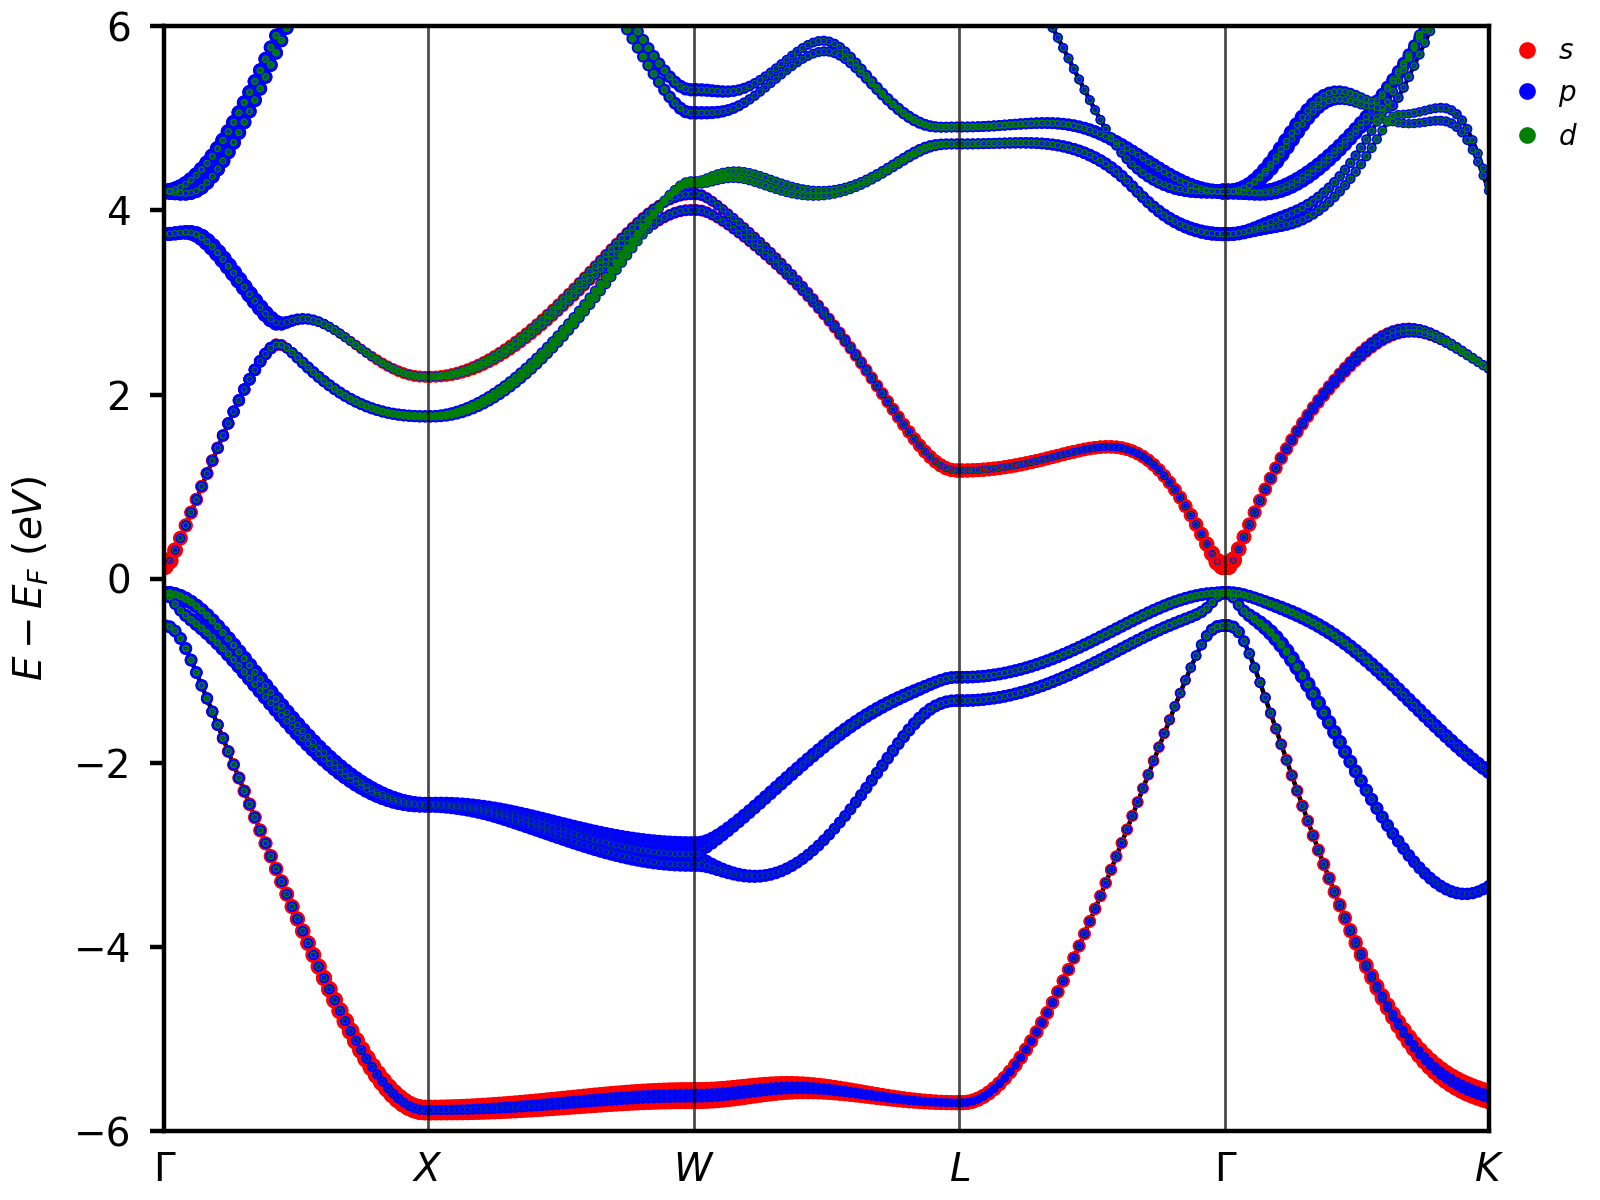
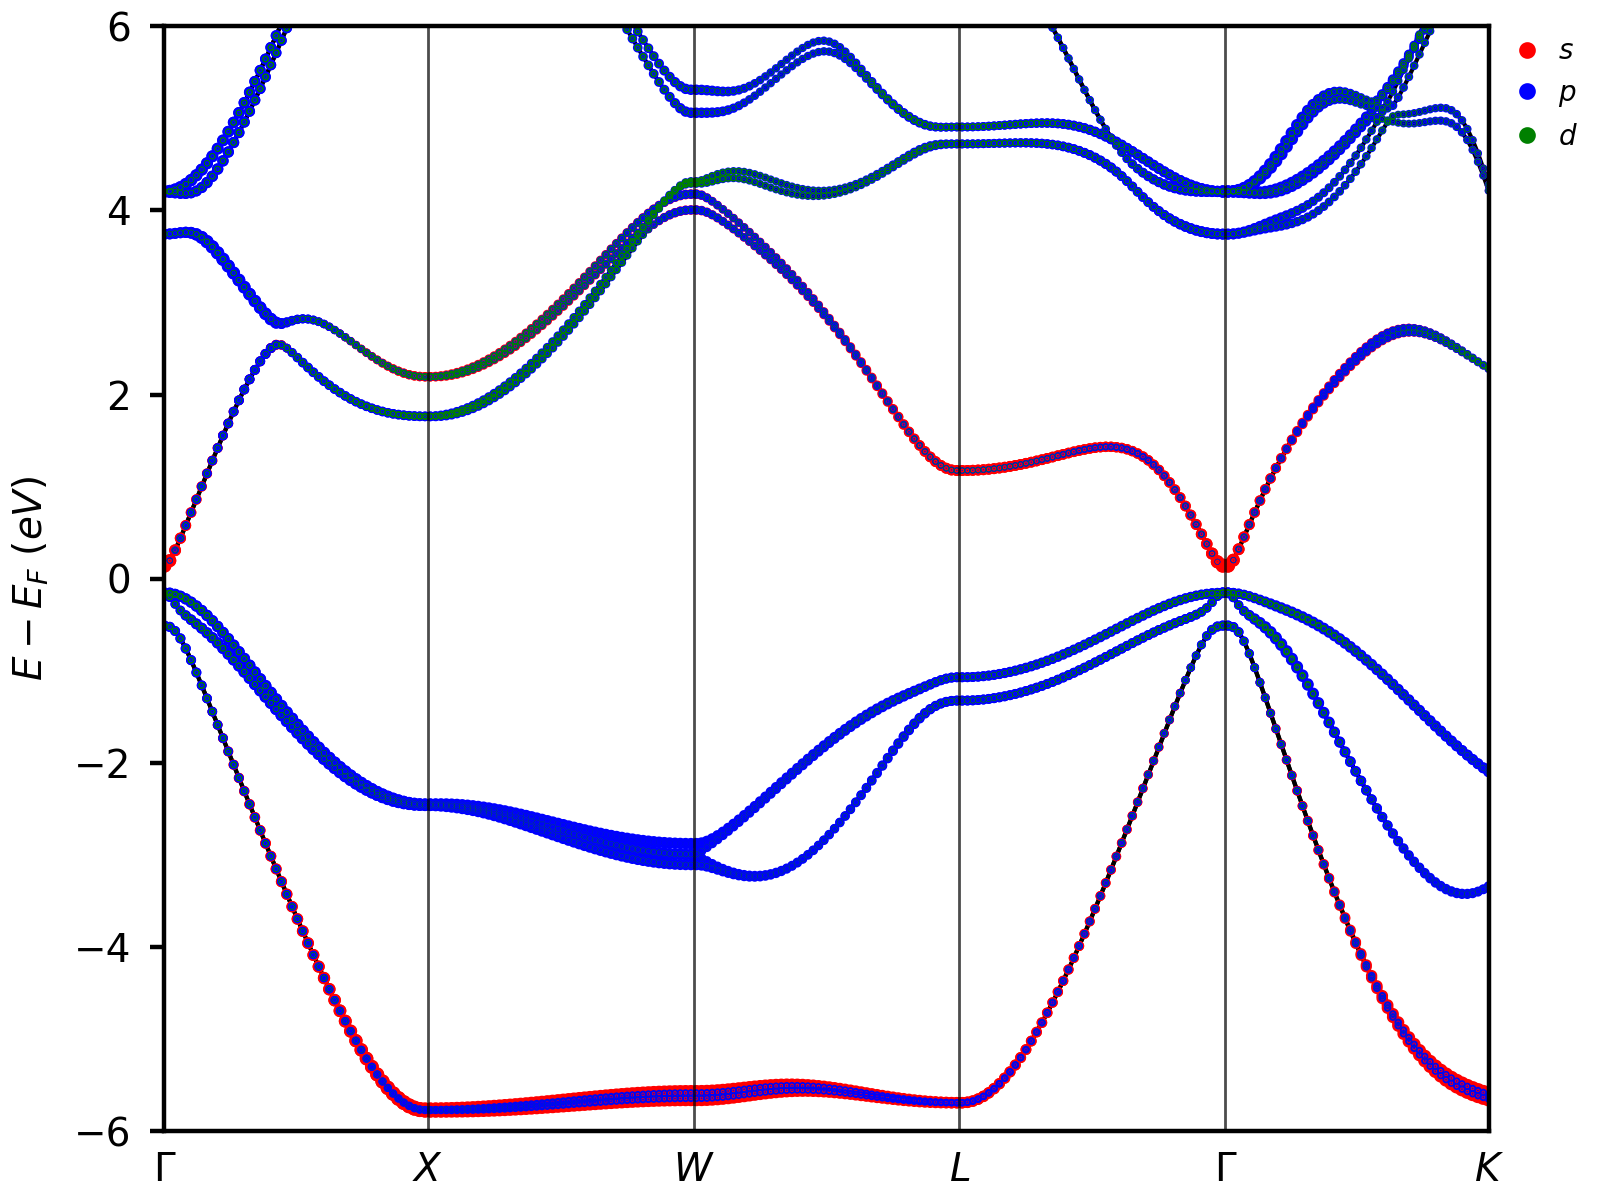
Updated plots in readme

diff --git a/setup.py b/setup.py
@@ -5,7 +5,7 @@ with open('./README.md', 'r') as fh:
 
 setup(
     name='vaspvis',
-    version='0.1.10',
+    version='0.1.11',
     description='A highly flexible and customizable library for visualizing electronic structure data from VASP calculations',
     long_description=long_description,
     long_description_content_type='text/markdown',
